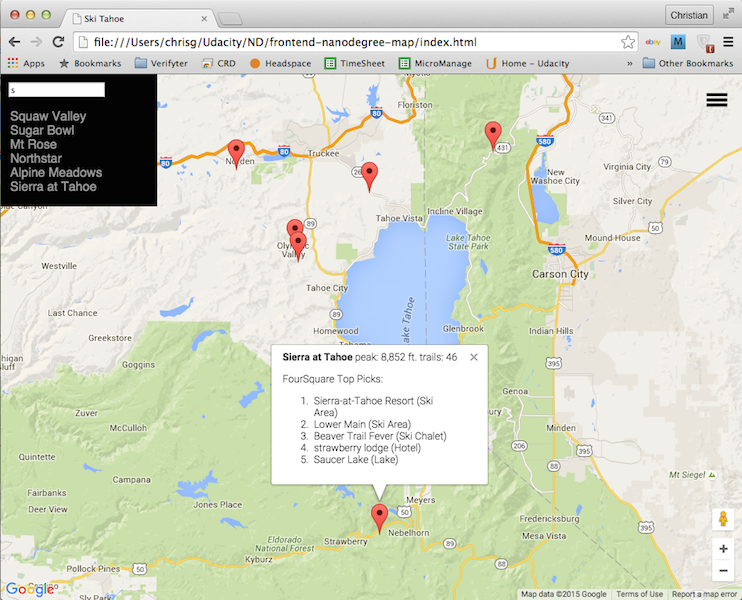
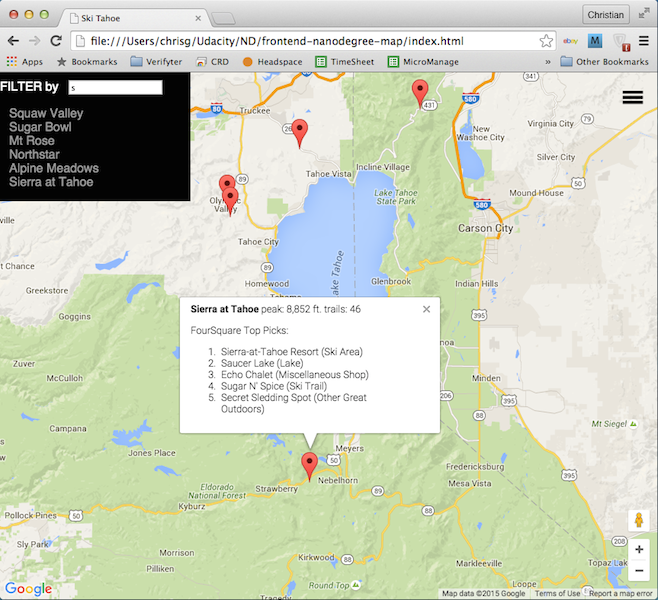
Add search bar label

diff --git a/css/map.css b/css/map.css
@@ -13,6 +13,11 @@ input {
     margin-top: 10px;
 }
 
+label {
+    color: #fff;
+    font-family: sans-serif;
+}
+
 .menu {
     display: inline-block;
     right: 0;
@@ -30,14 +35,14 @@ input {
 
 .nav {
     z-index: 10;
-    width: 200px;
+    width: 250px;
     position: absolute;
     left: 0px;
     Top: 0px;
     background-color: #000000;
     /* this transform moves the drawer off canvas. */
-    -webkit-transform: translate(-200px, 0);
-    transform: translate(-200px, 0);
+    -webkit-transform: translate(-250px, 0);
+    transform: translate(-250px, 0);
     /* optionally, we animate the drawer. */
     transition: transform 0.3s ease;
 }

diff --git a/index.html b/index.html
@@ -19,7 +19,9 @@
 
     <!-- list of filtered resorts -->
     <nav class="nav">
-      <input id="filter" type="text"/>
+      <label for="filter">FILTER by</label>
+      <input id="filter" type="text" name="search"/>
+
       <ul data-bind="foreach: {data: filteredItems}">
         <li data-bind="text: $data.name, click: $root.onclickResort"></li>
       </ul>
